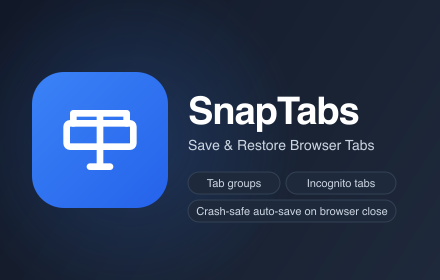
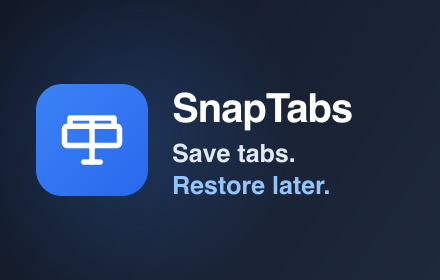
New store name, summary, gallery and promo tile (ASO)
From the ASO research (docs/growth/aso-2026-11-18.md): SnapTabs ranked
in the top 10 for no core search, and title keywords decide ranking at
this size.

- Manifest name "SnapTabs - Save Tabs & Session Manager" (38 chars) and
  description "Session manager and tab saver: save all open tabs in one
  click, restore them later with tab groups intact. Free, no account,
  local." (131 chars) (D16, user decision; the small loss on the old
  "Save & Restore Browser Tabs" phrase was accepted).
- Gallery regenerated by the pipeline in the new order (D17): Restore
  from the list, how it works (the guide), tab groups, opt-in safety
  nets (backup, closed group, browser close), search; every image has a
  "Free - No account - Stays on your device" footer. The two Settings
  screenshots and the recording one are gone; demo data gains a closed
  group.
- Small promo tile redrawn: icon, "SnapTabs", "Save tabs. Restore later."
  only, legible at half size (the old chips weren't).
- README, STORE_LISTING (assets, upload order, name/summary now noted as
  manifest-driven), scripts/README and CHANGELOG updated.
- CDP checks accept the restore reply's new counts.

Changed region(s): [[0.0591, 0.2571, 0.8568, 0.7429], [0.4432, 0.7429, 0.8864, 0.7714]]

diff --git a/scripts/capture-screenshots.ts b/scripts/capture-screenshots.ts
@@ -9,7 +9,7 @@ import path from 'path';
 import fs from 'fs';
 import { fileURLToPath } from 'url';
 import { KEYS } from '../src/lib/storage';
-import { buildDemoSessions, demoSettings, buildDemoRecording } from './demo-data';
+import { buildDemoSessions, demoSettings } from './demo-data';
 
 const __dirname = path.dirname(fileURLToPath(import.meta.url));
 const ROOT = path.resolve(__dirname, '..');
@@ -24,10 +24,6 @@ async function getServiceWorker(context: BrowserContext) {
 
 async function seedLocal(sw: Awaited<ReturnType<typeof getServiceWorker>>, data: Record<string, unknown>) {
   await sw.evaluate((d) => chrome.storage.local.set(d), data);
-}
-
-async function seedSession(sw: Awaited<ReturnType<typeof getServiceWorker>>, data: Record<string, unknown>) {
-  await sw.evaluate((d) => chrome.storage.session.set(d), data);
 }
 
 async function clearAll(sw: Awaited<ReturnType<typeof getServiceWorker>>) {
@@ -77,77 +73,66 @@ async function main() {
   await popup.setViewportSize({ width: 400, height: 600 });
 
   const demoSessions = buildDemoSessions();
-  const demoRecording = buildDemoRecording();
+  
+  const seedDemo = async (sessions = demoSessions) => {
+    await clearAll(sw);
+    await seedLocal(sw, {
+      [KEYS.sessions]: sessions,
+      [KEYS.settings]: demoSettings,
+      ...NO_RATING_BANNER,
+    });
+  };
 
-  // ── 1. Main view: rich session list (8 sessions, pinned at top) ──
-  console.log('[capture] 1/5 main view');
-  await clearAll(sw);
-  await seedLocal(sw, {
-    [KEYS.sessions]: demoSessions,
-    [KEYS.settings]: demoSettings,
-    ...NO_RATING_BANNER,
-  });
+  // Gallery order follows the ASO plan (docs/growth/aso-2026-11-18.md, D17):
+  // outcome, how it works, tab groups, safety nets, search.
+
+  // ── 1. Outcome: the session list, each card with its Restore button ──
+  console.log('[capture] 1/5 sessions with Restore');
+  await seedDemo();
   await popup.goto(popupUrl);
   await waitForPopupReady(popup);
-  await popup.screenshot({ path: path.join(RAW_DIR, '1-main.png') });
+  await popup.screenshot({ path: path.join(RAW_DIR, '1-restore.png') });
 
-  // ── 2. Session detail: Phoenix, two tab groups visible ──
-  console.log('[capture] 2/5 session detail');
+  // ── 2. How it works: the guide's three steps (welcome page, help version) ──
+  console.log('[capture] 2/5 how it works');
+  const guide = await context.newPage();
+  await guide.setViewportSize({ width: 400, height: 600 });
+  await guide.goto(`chrome-extension://${extensionId}/welcome.html?from=help`);
+  await guide.waitForSelector('[data-step="how"]');
+  await guide.evaluate(() => {
+    const heading = document.querySelector('h1') as HTMLElement;
+    window.scrollTo(0, heading.getBoundingClientRect().top + window.scrollY - 12);
+  });
+  await guide.waitForTimeout(300);
+  await guide.screenshot({ path: path.join(RAW_DIR, '2-how-it-works.png') });
+  await guide.close();
+
+  // ── 3. Tab groups: Project Phoenix detail with two coloured groups ──
+  console.log('[capture] 3/5 tab groups');
+  await popup.bringToFront();
+  await popup.goto(popupUrl);
+  await waitForPopupReady(popup);
   await popup.locator('.card').filter({ hasText: 'Project Phoenix' }).click();
   await popup.waitForSelector('.detail', { state: 'visible' });
   await popup.waitForTimeout(250);
-  await popup.screenshot({ path: path.join(RAW_DIR, '2-detail.png') });
+  await popup.screenshot({ path: path.join(RAW_DIR, '3-tab-groups.png') });
 
-  // ── 3. Recording in progress: bar visible with elapsed timer ──
-  console.log('[capture] 3/5 recording');
-  await clearAll(sw);
-  await seedLocal(sw, {
-    [KEYS.sessions]: demoSessions,
-    [KEYS.settings]: demoSettings,
-    ...NO_RATING_BANNER,
-  });
-  await seedSession(sw, {
-    [KEYS.recording]: demoRecording,
-  });
+  // ── 4. Safety nets: the three kinds of automatic save in the list ──
+  console.log('[capture] 4/5 safety nets');
+  const safetyIds = ['demo-backup', 'demo-closed-group', 'demo-browser-close'];
+  await seedDemo(demoSessions.filter((s) => safetyIds.includes(s.id)));
   await popup.goto(popupUrl);
   await waitForPopupReady(popup);
-  // RecordingBar should render because getRecording() returns isActive:true
-  await popup.screenshot({ path: path.join(RAW_DIR, '3-recording.png') });
+  await popup.screenshot({ path: path.join(RAW_DIR, '4-safety-nets.png') });
 
-  // ── 4. Settings: scrolled to the Snapshot section so excluded-domain chips are visible ──
-  console.log('[capture] 4/5 settings');
-  await clearAll(sw);
-  await seedLocal(sw, {
-    [KEYS.sessions]: demoSessions,
-    [KEYS.settings]: demoSettings,
-    ...NO_RATING_BANNER,
-  });
+  // ── 5. Search: matches across every saved session ──
+  console.log('[capture] 5/5 search');
+  await seedDemo();
   await popup.goto(popupUrl);
   await waitForPopupReady(popup);
-  await popup.locator('button[aria-label="Settings"]').click();
-  await popup.waitForSelector('.settings-body', { state: 'visible' });
-  await popup.waitForTimeout(150);
-  // Scroll the settings body so Snapshot + Excluded domains are centered in view
-  await popup.evaluate(() => {
-    const body = document.querySelector('.settings-body') as HTMLElement | null;
-    const target = Array.from(document.querySelectorAll('.section-label')).find(
-      (el) => (el.textContent ?? '').trim() === 'Snapshot',
-    ) as HTMLElement | undefined;
-    if (body && target) {
-      body.scrollTop = target.offsetTop - 8;
-    }
-  });
-  await popup.waitForTimeout(250);
-  await popup.screenshot({ path: path.join(RAW_DIR, '4-settings.png') });
-
-  // ── 5. Auto-Save: top of Settings with save-on-close and rolling backup on ──
-  console.log('[capture] 5/5 auto-save');
-  await popup.evaluate(() => {
-    const body = document.querySelector('.settings-body') as HTMLElement | null;
-    if (body) body.scrollTop = 0;
-  });
-  await popup.waitForTimeout(250);
-  await popup.screenshot({ path: path.join(RAW_DIR, '5-auto-save.png') });
+  await popup.locator('input[placeholder^="Search"]').fill('phoenix');
+  await popup.waitForTimeout(300);
+  await popup.screenshot({ path: path.join(RAW_DIR, '5-search.png') });
 
   await context.close();
   console.log(`[capture] Done. Raw PNGs in ${path.relative(ROOT, RAW_DIR)}/`);

diff --git a/scripts/compose-screenshots.ts b/scripts/compose-screenshots.ts
@@ -45,39 +45,39 @@ interface Slide {
 
 const slides: Slide[] = [
   {
-    raw: '1-main.png',
-    out: '1-main-view.png',
-    eyebrow: 'Your tab library',
-    headline: 'Every session,\nin one place.',
-    subhead: 'Save 40 tabs for a research session, 12 for tomorrow’s standup, and the ones you pinned stay on top.',
+    raw: '1-restore.png',
+    out: '1-restore.png',
+    eyebrow: 'Session manager & tab saver',
+    headline: 'Close 40 tabs.\nGet them back.',
+    subhead: 'Save every open tab in one click, close them, and bring the whole session back later with one click on Restore.',
   },
   {
-    raw: '2-detail.png',
-    out: '2-session-detail.png',
+    raw: '2-how-it-works.png',
+    out: '2-how-it-works.png',
+    eyebrow: 'How it works',
+    headline: 'Save. Close.\nRestore.',
+    subhead: 'That is the whole idea. A short guide is always one click away behind the ? button.',
+  },
+  {
+    raw: '3-tab-groups.png',
+    out: '3-tab-groups.png',
     eyebrow: 'Inside a session',
     headline: 'Tab groups,\nintact.',
-    subhead: 'Group names, colors, and collapsed state come back exactly how you left them. One click restores the whole window.',
+    subhead: 'Group names, colours and collapsed state come back exactly the way you left them.',
   },
   {
-    raw: '3-recording.png',
-    out: '3-recording.png',
-    eyebrow: 'Live recording',
-    headline: 'Capture as\nyou browse.',
-    subhead: 'Hit record, follow the trail across tabs, then save the whole path — with URL dedup baked in.',
-  },
-  {
-    raw: '4-settings.png',
-    out: '4-settings.png',
-    eyebrow: 'Privacy controls',
-    headline: 'You decide\nwhat’s saved.',
-    subhead: 'Exclude domains you never want captured — banking, mail, internal tools. Subdomains match the parent rule.',
-  },
-  {
-    raw: '5-auto-save.png',
-    out: '5-auto-save.png',
-    eyebrow: 'Crash protection',
+    raw: '4-safety-nets.png',
+    out: '4-safety-nets.png',
+    eyebrow: 'Safety nets',
     headline: 'Never lose\nyour tabs.',
-    subhead: 'Save every window when you quit, plus a rolling backup every few minutes, so a crash or a closed window never costs you your work.',
+    subhead: 'Save when you quit, keep a rolling backup, save tab groups as you close them. All off until you turn them on.',
+  },
+  {
+    raw: '5-search.png',
+    out: '5-search.png',
+    eyebrow: 'Search',
+    headline: 'Find any tab\nyou saved.',
+    subhead: 'Search every session from the popup, or type st and a space in the address bar.',
   },
 ];
 
@@ -175,6 +175,9 @@ function backgroundSvg(slide: Slide): string {
     <!-- Subhead -->
     ${subheadSvg}
   </g>
+
+  <!-- Promise footer on every image (D17) -->
+  <text x="${TEXT_X}" y="${CANVAS_H - 56}" font-family="${FONT_FAMILY}" font-size="15" font-weight="500" fill="#71717a" letter-spacing="0.3">Free  ·  No account  ·  Stays on your device</text>
 </svg>`;
 }
 

diff --git a/scripts/demo-data.ts b/scripts/demo-data.ts
@@ -194,6 +194,22 @@ export function buildDemoSessions(now: number = Date.now()): Session[] {
       hasIncognitoTabs: false,
       isAutoSave: true,
     },
+    // v1.10: a tab group saved when it was closed.
+    {
+      id: 'demo-closed-group',
+      name: 'Work (closed group)',
+      timestamp: now - 3 * HOUR,
+      tabs: withIndex([
+        tab('https://mail.example.com/inbox', 'Inbox — Work mail', { groupId: 9 }),
+        tab('https://calendar.google.com/calendar/u/0/r/week', 'Google Calendar — This week', { groupId: 9 }),
+        tab('https://linear.app/acme/team/PHX/active', 'Active issues · Phoenix', { groupId: 9 }),
+        tab('https://docs.google.com/document/d/1q2w3e/edit', 'Q3 planning — Google Docs', { groupId: 9 }),
+      ]),
+      tabGroups: [{ id: 9, title: 'Work', color: 'orange' as chrome.tabGroups.ColorEnum, collapsed: false }],
+      windowCount: 1,
+      hasIncognitoTabs: false,
+      isAutoSave: true,
+    },
   ];
 }
 

diff --git a/wxt.config.ts b/wxt.config.ts
@@ -4,8 +4,8 @@ export default defineConfig({
   srcDir: 'src',
   modules: ['@wxt-dev/module-svelte'],
   manifest: {
-    name: 'SnapTabs - Save & Restore Browser Tabs',
-    description: 'Save, restore, and manage browser tabs. Tab groups, incognito, session manager, live recording, crash-safe auto-save.',
+    name: 'SnapTabs - Save Tabs & Session Manager',
+    description: 'Session manager and tab saver: save all open tabs in one click, restore them later with tab groups intact. Free, no account, local.',
     permissions: ['tabs', 'tabGroups', 'storage', 'contextMenus', 'alarms', 'favicon'],
     omnibox: { keyword: 'st' },
     incognito: 'spanning',

diff --git a/STORE_LISTING.md b/STORE_LISTING.md
@@ -13,7 +13,7 @@ The Chrome Web Store uses different images in different surfaces. Missing any of
 | Extension icon | 128×128 | `src/public/icon/128.png` | Manifest icon (auto) | Detail page, install button |
 | Small promo tile | **440×280** | `screenshots/store/promo-small-440x280.png` | "Small promo tile" | **Search autocomplete**, category lists, related items |
 | Marquee promo tile | 1400×560 | `screenshots/store/promo-marquee-1400x560.png` | "Marquee promo tile" | Featured placement, homepage carousel |
-| Screenshots (5) | 1280×800 | `screenshots/store/1-main-view.png` … `5-auto-save.png` | "Screenshots" | Detail page gallery |
+| Screenshots (5) | 1280×800 | `screenshots/store/1-restore.png` … `5-search.png` | "Screenshots" | Detail page gallery |
 
 **If your listing shows the name with no icon in search suggestions, the small promo tile is most likely missing.** Upload `promo-small-440x280.png` in the dashboard under *Store listing → Graphic assets → Small promo tile*.
 
@@ -52,7 +52,7 @@ Run through this for every CWS submission so the listing never lags the source a
 6. **Build the upload zip**: `npm run zip` → produces `.output/snaptabs-<version>-chrome.zip`.
 7. **Upload to the CWS Developer Dashboard**:
    - Item page → Package tab → upload the new zip.
-   - Store listing tab → Graphic assets → re-upload the 5 screenshots from `screenshots/store/`, in this order: `1-main-view`, `5-auto-save`, `2-session-detail`, `3-recording`, `4-settings` (the first two show in search results and matter most).
+   - Store listing tab → Graphic assets → re-upload the 5 screenshots from `screenshots/store/` in file order: `1-restore`, `2-how-it-works`, `3-tab-groups`, `4-safety-nets`, `5-search` (D17; the first two matter most).
    - Store listing tab → paste the updated long description / features / FAQ from this file.
    - Privacy practices tab → if the permissions changed, add a justification for each new one (see **Privacy practices tab** below).
    - Save draft, then Submit for review.
@@ -62,11 +62,15 @@ Run through this for every CWS submission so the listing never lags the source a
 
 ## Name (45 char max)
 
-SnapTabs - Save & Restore Browser Tabs
+SnapTabs - Save Tabs & Session Manager
+
+Set by `name` in `wxt.config.ts` (the store reads it from the package); changing it needs a release.
 
 ## Summary / short description (132 char max)
 
-Save, restore, and organize Chrome tabs. Tab groups, incognito, live recording, crash-safe auto-save. Local only.
+Session manager and tab saver: save all open tabs in one click, restore them later with tab groups intact. Free, no account, local.
+
+Set by `description` in `wxt.config.ts`; changing it needs a release.
 
 ## Category
 

diff --git a/README.md b/README.md
@@ -1,4 +1,4 @@
-# SnapTabs - Save and Restore Browser Tabs
+# SnapTabs - Save Tabs & Session Manager
 
 Save every tab in your Chrome window with one click, then bring them all back days or weeks later. SnapTabs keeps tab groups intact, handles incognito tabs, and stores everything on your own machine. No accounts, no sync, no tracking.
 
@@ -61,15 +61,15 @@ The point is not to keep 200 tabs open. The point is to close them without losin
 
 ## Screenshots
 
-![Every session in one place — the main view with saved sessions including a pinned project session with two tab groups and the rolling backup](screenshots/store/1-main-view.png)
+![Close 40 tabs, get them back: the session list, each saved session with a Restore button](screenshots/store/1-restore.png)
 
-![Tab groups, intact — session detail showing Specs and Code groups expanded with real tab titles](screenshots/store/2-session-detail.png)
+![Save, close, restore: the three-step guide behind the ? button](screenshots/store/2-how-it-works.png)
 
-![Capture as you browse — live recording in progress with elapsed timer and recent-tabs preview](screenshots/store/3-recording.png)
+![Tab groups, intact: session detail with the Specs and Code groups](screenshots/store/3-tab-groups.png)
 
-![You decide what's saved — settings with excluded-domain chips for banking, mail, and internal tools](screenshots/store/4-settings.png)
+![Never lose your tabs: a rolling backup, a saved closed tab group and a browser-close session, all opt-in](screenshots/store/4-safety-nets.png)
 
-![Never lose your tabs — Auto-Save settings with save on browser close and a 15-minute rolling backup](screenshots/store/5-auto-save.png)
+![Find any tab you saved: searching every session from the popup](screenshots/store/5-search.png)
 
 ## FAQ
 

diff --git a/CHANGELOG.md b/CHANGELOG.md
@@ -17,6 +17,11 @@ The format follows [Keep a Changelog](https://keepachangelog.com/en/1.1.0/), and
 - **Site icons without the network.** Saved tabs' icons now come from the browser's local icon cache, so viewing a session makes no network requests (previously icons loaded from each site, with a Google fallback). Adds the `favicon` permission, which shows no new prompt.
 - **Save tab groups when you close them** (off by default, Settings > Auto-Save, also on the welcome page). Chrome doesn't let extensions see a group after it's closed, so SnapTabs keeps a copy at the moment you close a whole group, named "<group> (closed group)" with its colour. Ungrouping, closing tabs one by one, and closing the window don't count. Closing the same group again with the same tabs replaces the earlier copy. Works even if SnapTabs' background worker was asleep.
 
+### Changed
+
+- **New store name and summary:** "SnapTabs - Save Tabs & Session Manager" / "Session manager and tab saver: save all open tabs in one click, restore them later with tab groups intact. Free, no account, local." (from the ASO research in `docs/growth/`).
+- **New store gallery and promo tile:** five screenshots led by the outcome (Restore from the list, how it works, tab groups, opt-in safety nets, search) with a "Free - No account - Stays on your device" footer, and a search-result tile that reads at half size.
+
 ### Internal
 
 - `npm run check` is the one gate (docs check, type check, unit tests, build); CI runs it. Specs live in `docs/<feature>/spec.md` and decisions in `docs/decisions/README.md`.

diff --git a/scripts/README.md b/scripts/README.md
@@ -22,11 +22,11 @@ You can run each step independently if needed (e.g. iterate on the compose step'
 
 | Output | View | Highlights |
 |---|---|---|
-| `1-main-view.png` | Main popup, 9 sessions seeded | Pinned session at top, Rolling backup with its Backup badge, tab-group chips, mix of manual + auto-save badges |
-| `2-session-detail.png` | Project Phoenix detail | Two colored tab groups (Specs purple, Code blue), real-looking tab titles |
-| `3-recording.png` | Live recording active | Red REC bar with elapsed timer, recent-tabs preview, session list visible below |
-| `4-settings.png` | Settings scrolled to Snapshot section | Excluded-domain chips visible (mail, bank, 1password, internal.acme.com), Restore section with Sleep restored tabs |
-| `5-auto-save.png` | Settings scrolled to the top | Save on browser close on, Rolling backup at 15 min |
+| `1-restore.png` | Main popup, 10 sessions seeded | Every card with its Restore button, pinned session on top, Rolling backup and a closed group |
+| `2-how-it-works.png` | Guide (`welcome.html?from=help`) at 400×600 | The three steps with replicas of the Snapshot and Restore buttons |
+| `3-tab-groups.png` | Project Phoenix detail | Two coloured tab groups (Specs purple, Code blue), favicons from the local cache |
+| `4-safety-nets.png` | Main popup with only the automatic saves | Rolling backup, "Work (closed group)", Browser close |
+| `5-search.png` | Main popup, search "phoenix" | Matches across sessions |
 
 ### Changing the demo content
 

diff --git a/docs/v1.10-growth/spec.md b/docs/v1.10-growth/spec.md
@@ -40,4 +40,4 @@ Rows added to [the register](../decisions/README.md): D14 to D17.
 
 1. Favicons from the local cache (R1, R7). **Done 2026-11-18**: proxy check passes (0 requests to saved sites) and fails on the old code.
 2. Restore button and duplicate skipping (R2, R3). **Done 2026-11-18**: 5 unit + 2 E2E tests; disabling the skip breaks 3 unit and 1 E2E test; card screenshot reviewed (long names truncate).
-3. Name, summary, gallery and promo tile (R4 to R6).
+3. Name, summary, gallery and promo tile (R4 to R6). **Done 2026-11-18**: manifest carries the new name (38 chars) and summary (131); five new gallery images and the promo tile reviewed (tile legible at half size).
